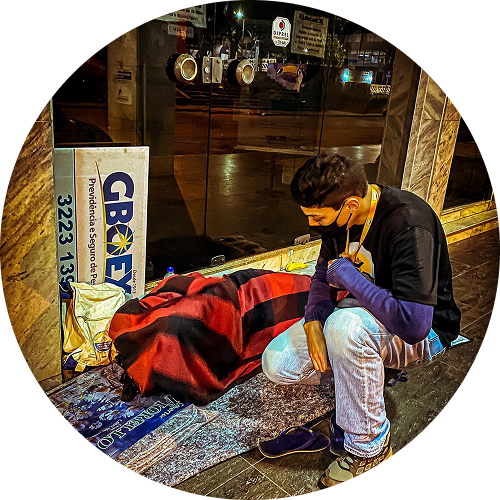
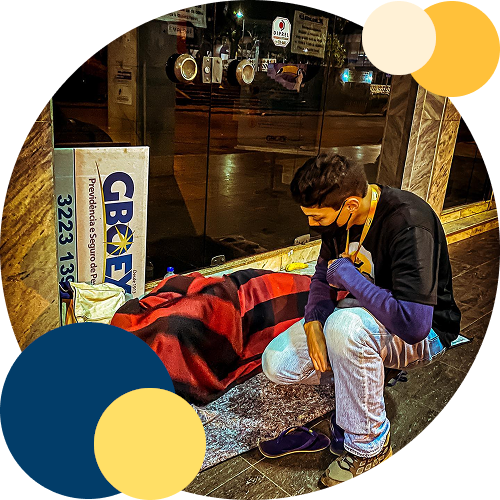
feat(SectionAud): add new section with image and text
- Added new image (fotoEllipse.png)
- Implemented new section layout
- Included new text content
- Added button component
- Improved visual presentation

Changed region(s): [[0.0, 0.63, 0.42, 1.0], [0.72, 0.0, 1.0, 0.21]]

diff --git a/src/assets/components/SectionAud/index.tsx b/src/assets/components/SectionAud/index.tsx
@@ -1,6 +1,8 @@
 import { Button, ContainerButton, DivContainerText, DivFlex, Title, Text, TitleH2, DivFlexImage, Img } from "../../../uiKit";
 
 import comoAjudar from "../../images/comoAjudar.png"
+import fotoElipise from "../../images/fotoEllipse.png"
+
 
 function SectionAud() {
     return(
@@ -58,6 +60,43 @@ function SectionAud() {
                     </DivFlex>                    
                 </DivFlex>
             </DivFlex>
+            <DivFlex width="100%" alignitems="center" justifycontent="center">
+                <DivFlex width="1440px" height="100%" justifycontent="center" alignitems="center" backgroundColor="#FFFFFF" paddingTotal="80px 0 80px 0" paddingTotalmob="20px" flexdirectionmob="column">                    
+                    <DivFlex>
+                        <DivFlexImage alignitems="center" justifycontent="center" flexdirection="column" gap="25px" paddingright="20px" paddingbottommob="40px">
+                            <Img src={fotoElipise}/>                            
+                        </DivFlexImage>
+                    </DivFlex>   
+                    <DivFlex flexdirection="column" justifycontent="start" alignitems="start" alignitemsmob="center">
+                        <DivContainerText justifycontent="start" alignitems="start" flexdirection="column">
+                            <TitleH2 fontsize="68px" fontweight="400" color="#0C3077" fontsizemob="45px" textalign="start"
+                            paddingbottommob="20px">
+                                O Projeto Pão com Ovo<br/> 
+                                teve um crescimento de<br/> 
+                                567% ao longo dos anos
+                            </TitleH2> 
+                            <Text fontsize="28px" fontweight="400" color="#0C3077" fontsizemob="28px" textalign="start">
+                                Queremos continuar crescendo e impactando ainda<br/> 
+                                mais vidas, mas para isso precisamos da ajuda de<br/>
+                                doadores e voluntários. Sua contribuição é<br/>
+                                fundamental para que possamos expandir nossos<br/> 
+                                serviços e alcançar mais pessoas necessitadas. Junte<br/>
+                                -se a nós e faça parte dessa transformação!
+                            </Text>                                                               
+                        </DivContainerText>
+                        <ContainerButton alignitems="start" justifycontent="center" paddingtop="50px" alignitemsmob="center">
+                            <Button width="100%" height="66px" alignitems="center" justifycontent="center" borderradius="12px" border="2px solid #FFDF78" backgroundColor="#FFDF78" marginbotton="40px" fontsize="28px" fontweight="400" color="#021639" 
+                            fontsizemob="22px" padding="0 20px" onClick={function (): void {
+                            throw new Error("Function not implemented.");
+                            } }>
+                            Acompanhe a evolução do projeto 
+                            </Button>                        
+                        </ContainerButton>
+                    </DivFlex>                 
+                </DivFlex>
+            </DivFlex>
+
+            
         </>
     )
 }
